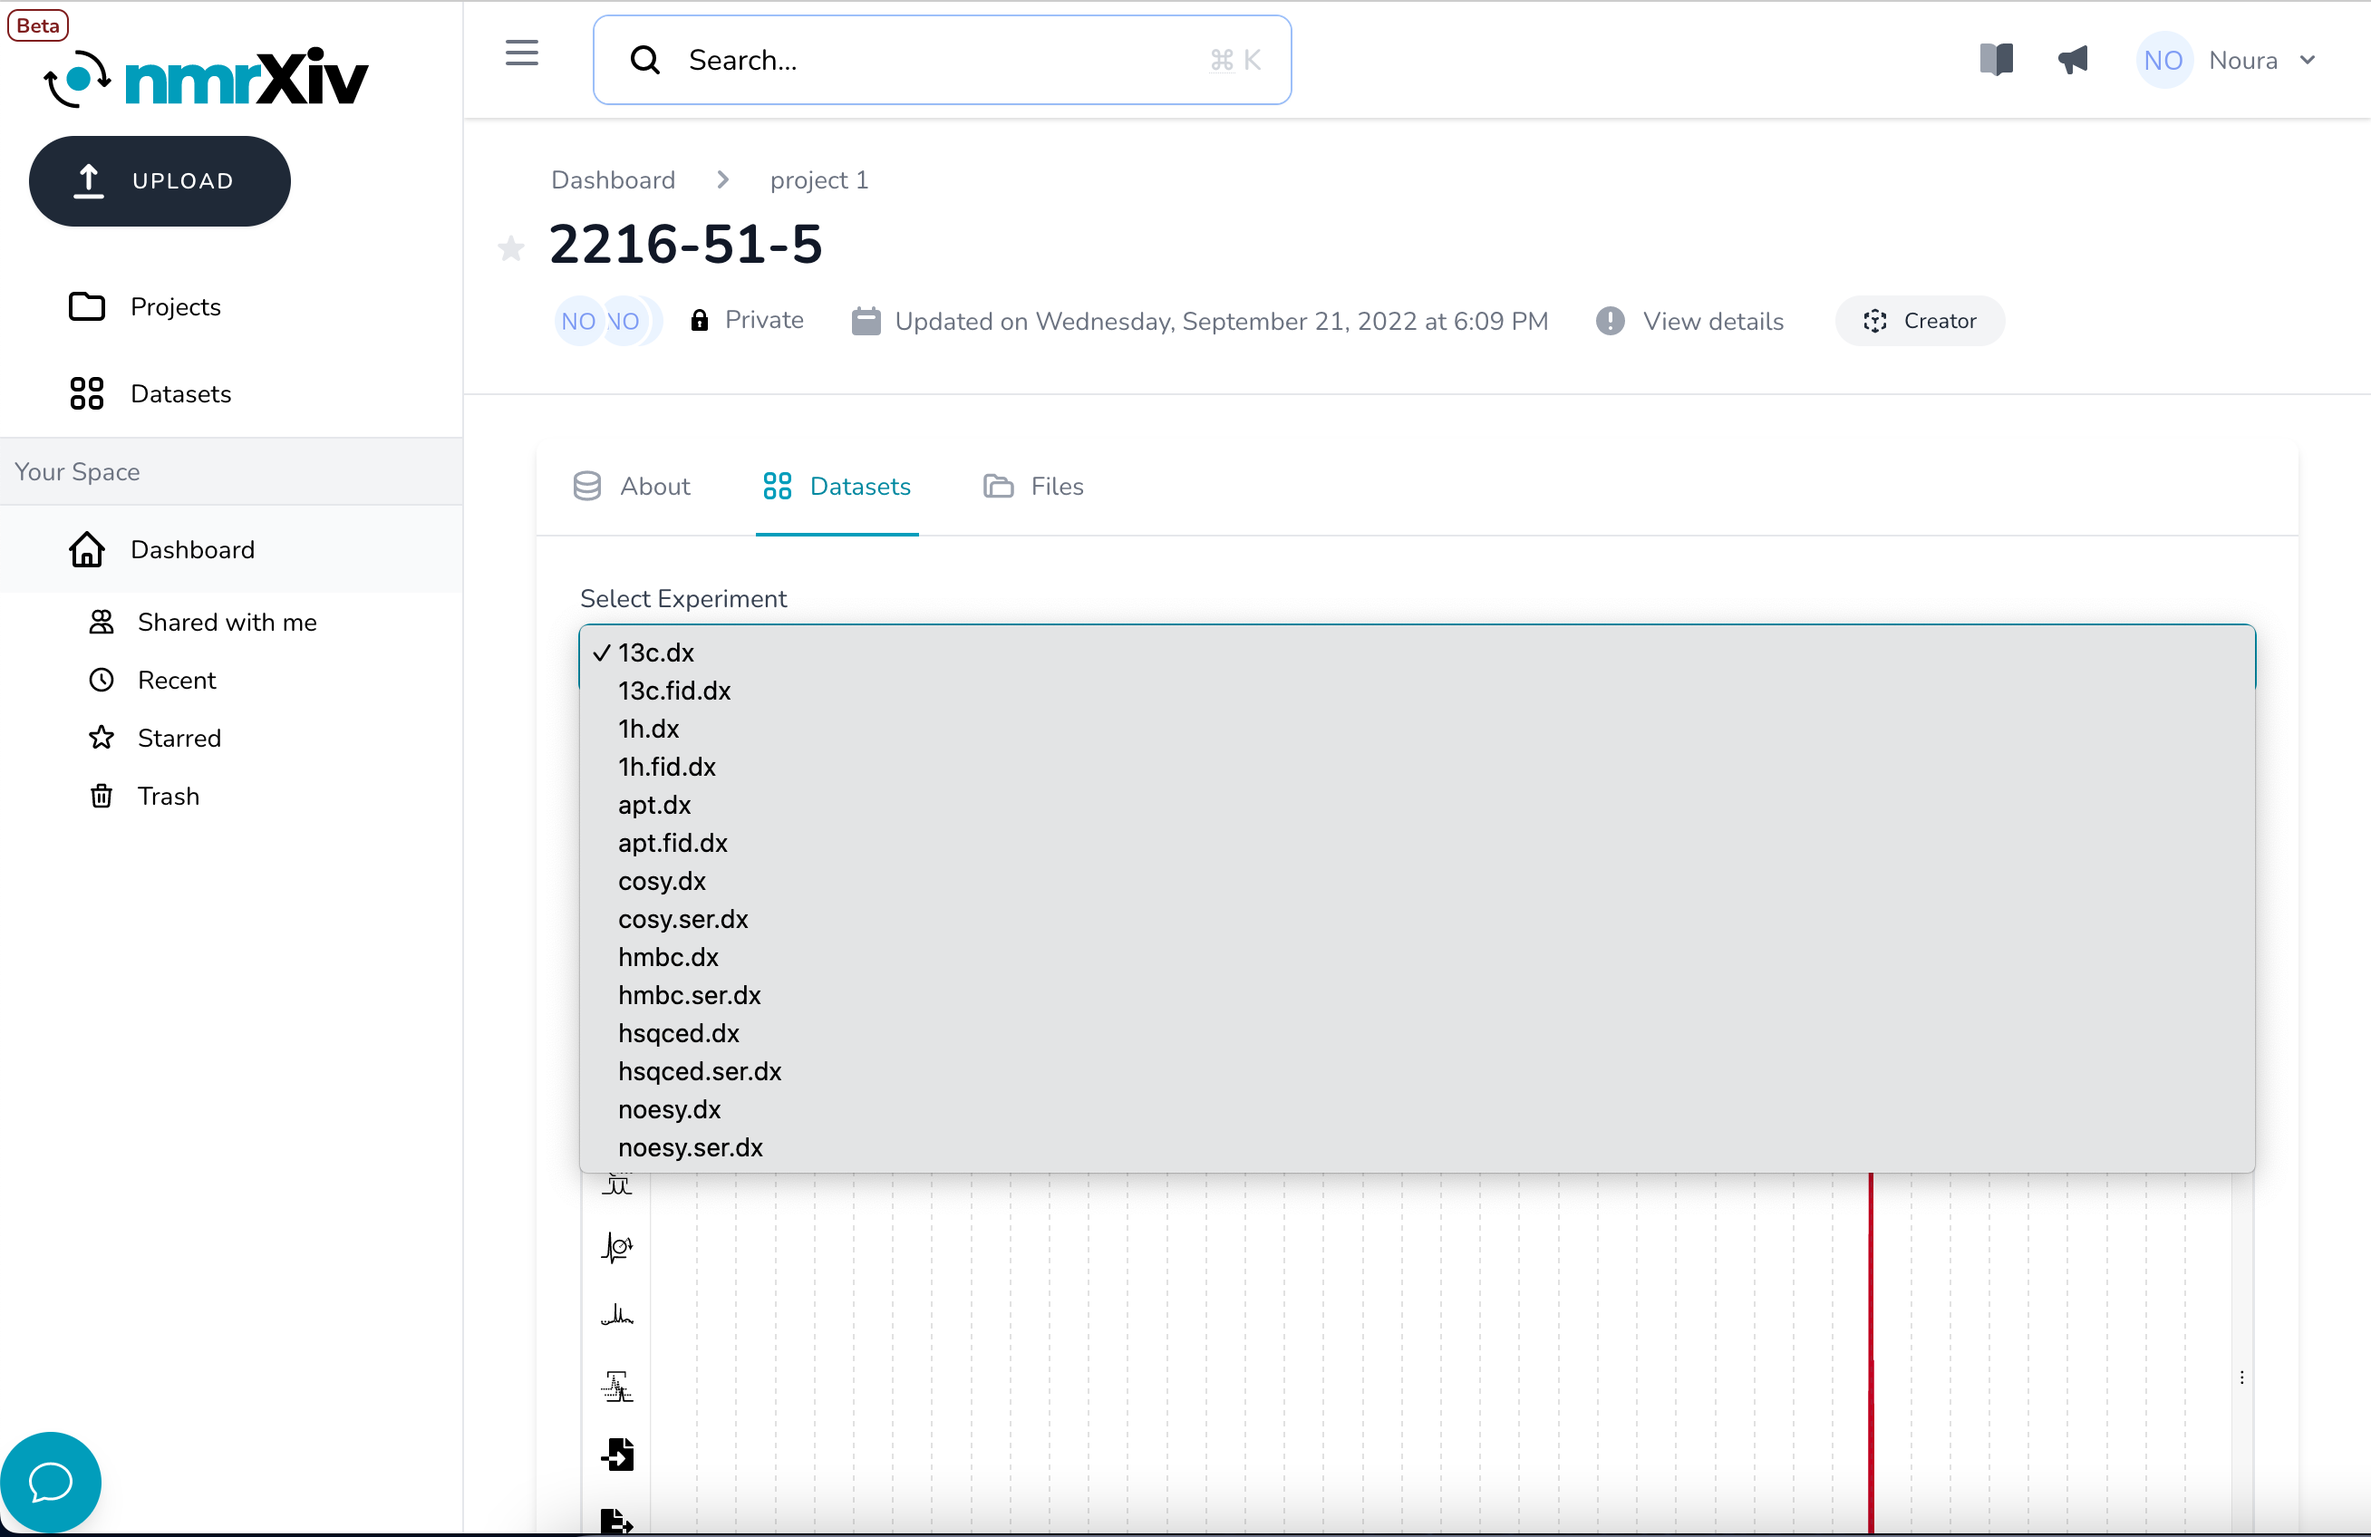
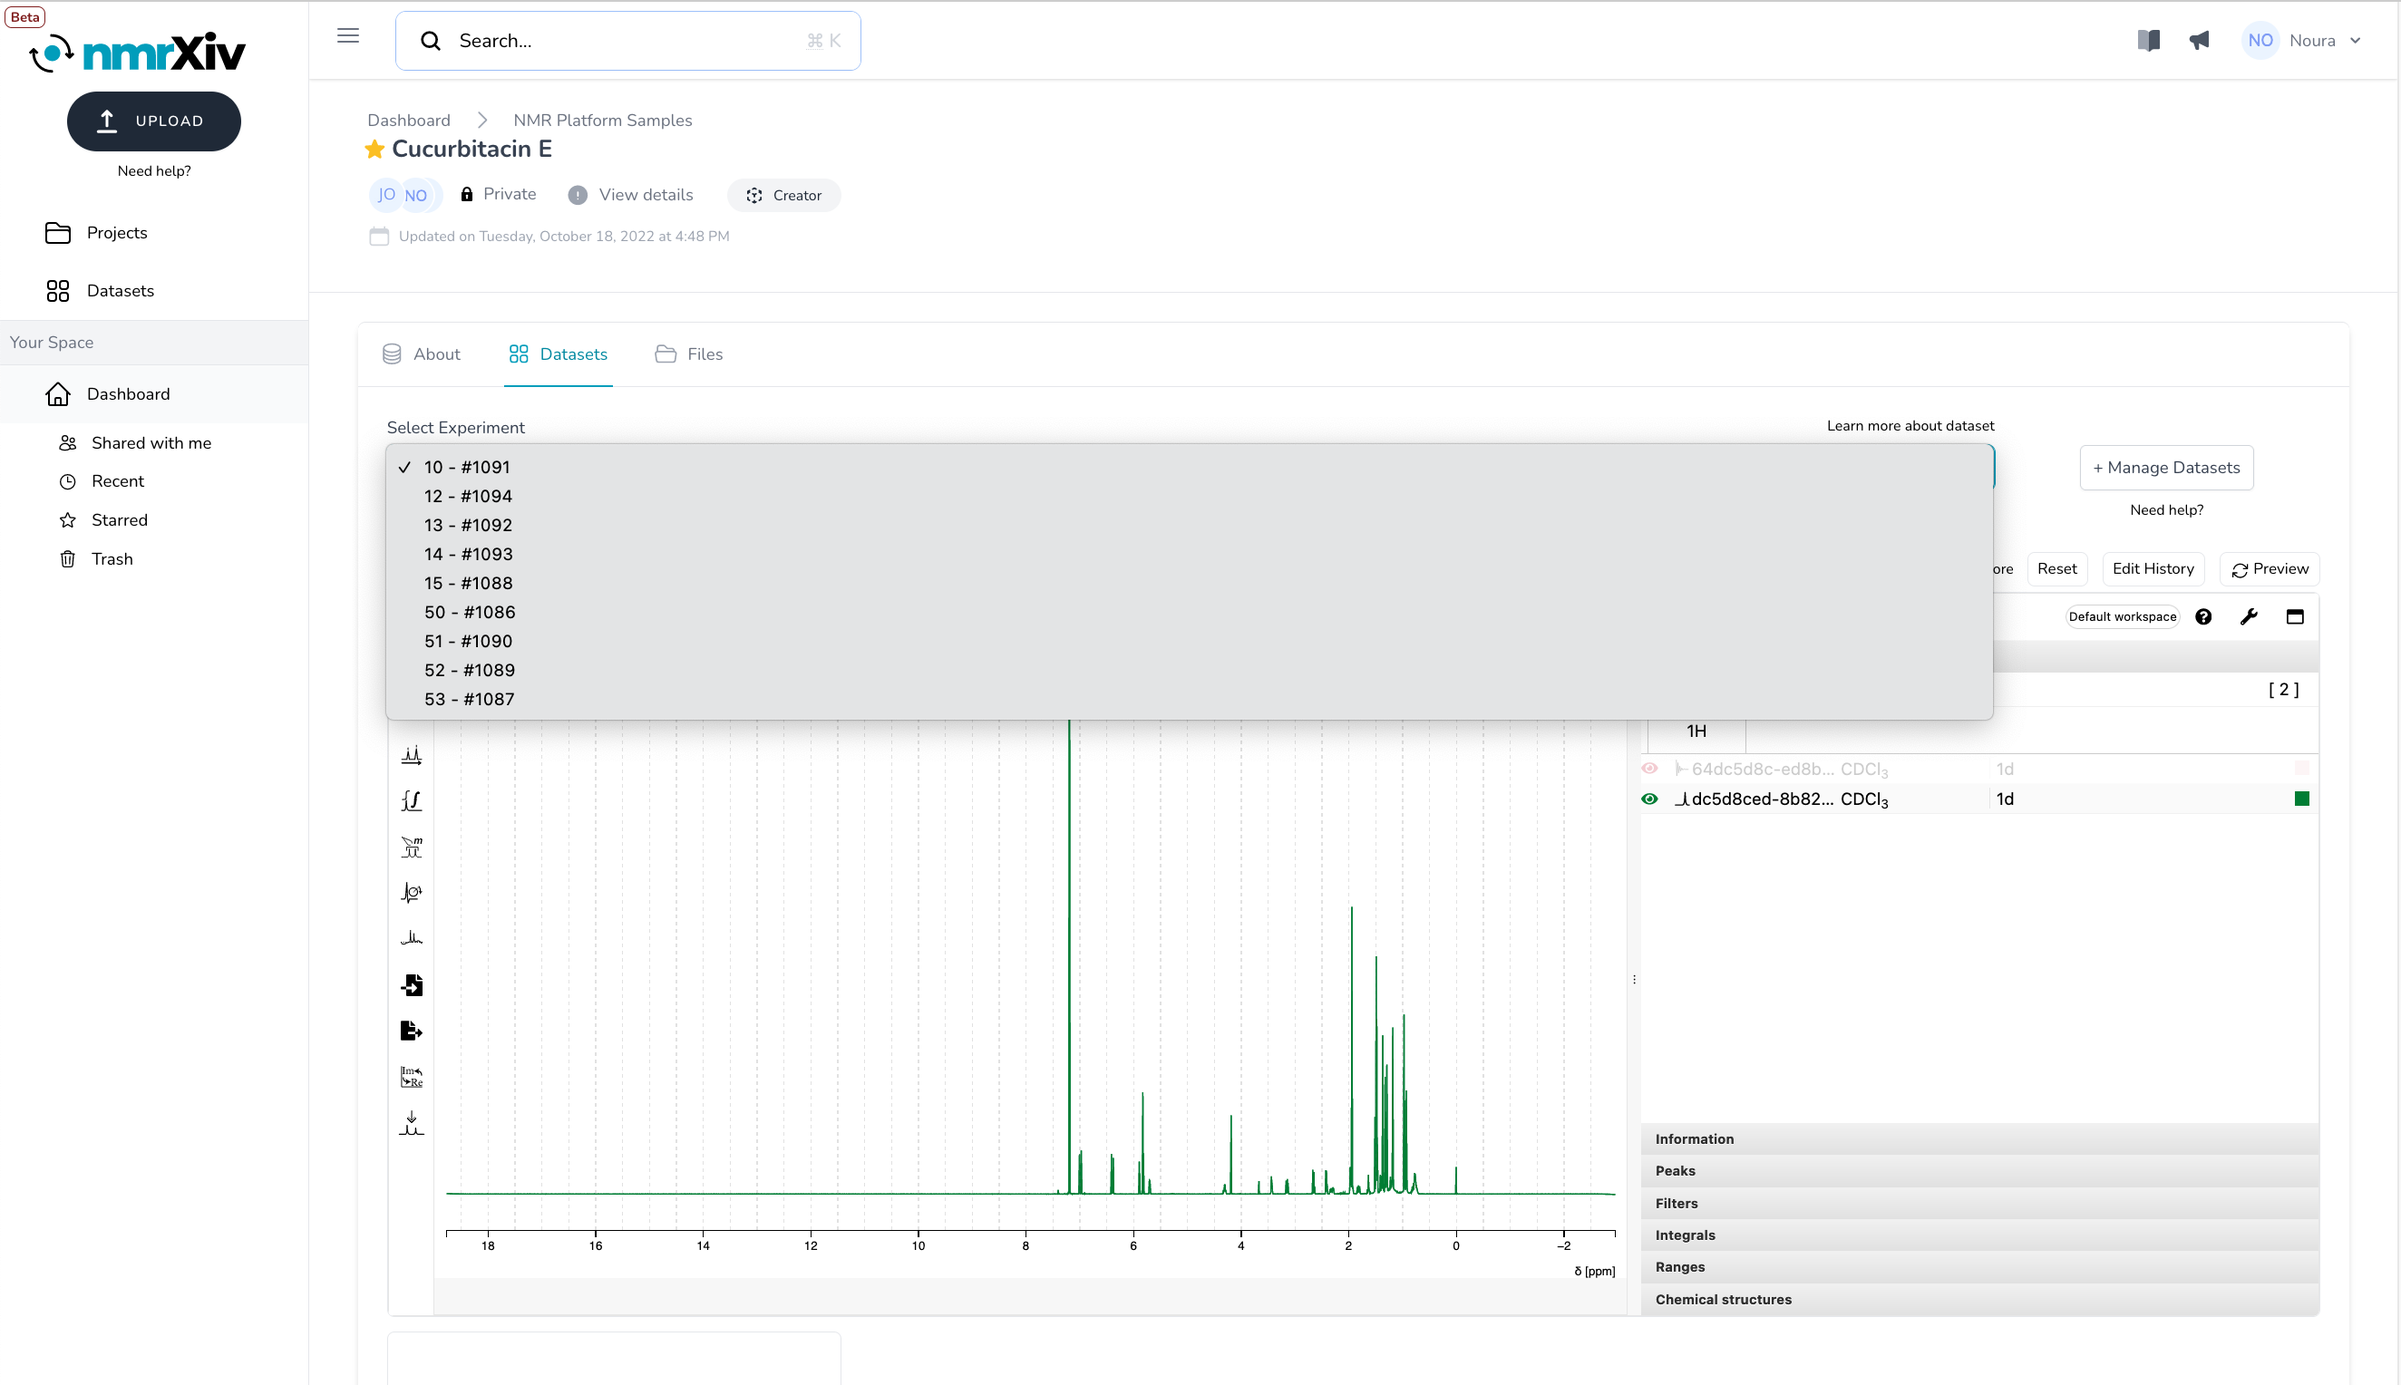
fix: update dataset page Fixes #260

diff --git a/docs/submission-guides/data-model/dataset.md b/docs/submission-guides/data-model/dataset.md
@@ -3,7 +3,7 @@ sidebar_position: 3
 title: Dataset
 ---
 
-The concept of the dataset in nmrXiv is similar to the one of [assay](https://isa-specs.readthedocs.io/en/latest/isamodel.html#assay) in [ISA model](https://isa-tools.org/format/specification.html) yet broader, as it refers to the files corresponding to experiments along with their metadata. For instance, one dataset could be a Bruker folder with all the underlying files corresponding to a 1H assay. nmrXiv is capable of detecting datasets automatically and grouping them in studies, which requires the user to make sure that they submit their data in a compatible way. For more details, it is highly recommended to check the [folder structuring section](/docs/submission-guides/submission/folder-structure.md) before submitting data.
+The concept of the dataset in **[nmrXiv](https://nmrxiv.org/)** is similar to the one of [assay](https://isa-specs.readthedocs.io/en/latest/isamodel.html#assay) in [ISA model](https://isa-tools.org/format/specification.html) yet broader, as it refers to the files corresponding to experiments along with their metadata. For instance, one dataset could be a Bruker folder with all the underlying files corresponding to a 1H assay. **[nmrXiv](https://nmrxiv.org/)** is capable of detecting datasets automatically and grouping them in studies, which requires the user to ensure submitting their data in a compatible way. For more details, it is highly recommended to check the [folder structuring section](/docs/submission-guides/submission/folder-structure.md) before submitting data.
 
 ## Dataset View
 <div style={{textAlign: 'center'}}>
@@ -12,7 +12,7 @@ The concept of the dataset in nmrXiv is similar to the one of [assay](https://is
 </div>
 <br></br>
 
-The view of a public dataset is similar to the private's one. In fact, it is just a tab from the [study view](/docs/submission-guides/data-model/study/#study-view), and it is similar to the [Step 2](/docs/submission-guides/submission/upload#assignement--meta-data---step-2) Experiments (Spectra) tab of the [Data Submission Pipeline](/docs/submission-guides/submission/upload). At the top, there is a drop-down menu to select an experiment (within a study, aka, sample). 
+The view of a public dataset is similar to the private's one. In fact, it is just a tab from the [study view](/docs/submission-guides/data-model/study/#study-view), and it is similar to the [Step 2](/docs/submission-guides/submission/upload#assignement--meta-data---step-2) Experiments (Spectra) tab of the [Data Submission Pipeline](/docs/submission-guides/submission/upload). At the top, there is a drop-down menu to select an experiment (within a study, thus, sample). 
 <div style={{textAlign: 'center'}}>
 <img src="/img/dataset/experiment.png" width="1000"/>
 <figcaption>Select experiment menu</figcaption>
@@ -21,41 +21,55 @@ The view of a public dataset is similar to the private's one. In fact, it is jus
 
 The selected experiment will be viewed in the embedded NMRium. For more details about [NMRium](https://www.nmrium.org/), please visit our [NMRium documentation page](/docs/advanced-guides/nmrium/) and [NMRium official documentation](https://docs.nmrium.org/).
 
-:::caution Please note
-On the very right side of the NMRium window, there are three vertical dots. Double-clicking on them will expand a menu with several fields.
-:::
+Next to the `Select Experiment` menu, there is a `Manage Datasets` button, which enables adding datasets or deleting them to and from a study through the [submission pipeline](/docs/submission-guides/submission/upload.md).
 
-Below NMRium there is the license of the datasets. This field is uneditable, and it takes its value from the parent study license. Then there is metadata of the experiment:
+Directly above the NMRium window, you can see a gray message on the left that informs the user about the current status of the spectra (being uploaded, saved, etc.). To the right side, there exist three buttons. `Reset` will reset all the edits done on the spectra, getting it back to its original status when uploaded. Resting is an edit that is saved along with other edits in the history, which can be viewed by clicking `Edit History`, which opens a side menu to show the editors, and the dates of edits.
+
+<div style={{textAlign: 'center'}}>
+<img src="/img/dataset/history.png" width="1000"/>
+</div> 
+
+If any structure is added to `Chemical structures` field in NMRium, it appears directly below NMRium. Then there is metadata of the experiment:
 - **Info** includes all the information extracted by [NMRium](https://www.nmrium.org/) about the NMR experiment.
 
 - **Meta** is the second table coming after **Info**. It includes the metadata from the instrument file.
 
 ## Create
-There are two ways to create datasets. First is through the [submission pipeline](/docs/submission-guides/submission/upload.md), where the datasets will be automatically detected. The second is after submission from the `Files` tab within a study by dragging and dropping files or folders, but the second option is possible only for private ones.
+There are two ways to create datasets. First is through the [submission pipeline](/docs/submission-guides/submission/upload.md), where the datasets will be automatically detected. The second is after submission from the `Datasets` tab within a study by dragging and dropping files or folders to the opened [submission pipeline](/docs/submission-guides/submission/upload.md), but the second option is possible only for private ones.
 
-<div style={{textAlign: 'center'}}>
-<img src="/img/dataset/files.png" width="1000"/>
-<figcaption>Files tab in a private study with the option to drag and drop more datasets there.</figcaption>
-</div>
-<br></br>
 
 ## Access
-You can access your created datasets by [entering their parent studies](/docs/submission-guides/data-model/study/#access) and going to `Files` tab. You can also find the ones shared with you by others in the `Shared with me` folder directly if the parent study is not shared with you. All the public datasets on nmrXiv are in the `Datasets` folder.
+You can access your created datasets and the ones shared with you by [entering their parent studies](/docs/submission-guides/data-model/study/#access) and going to `Datasets` or `Files` tabs. All the public datasets on **[nmrXiv](https://nmrxiv.org/)** are in the `Datasets` folder.
 
 ## Edit
-To edit a dataset, you should have **editing** access to it, which is the case when you are its creator or when it is shared with you as an owner or a collaborator. The dataset should also still be private.
-
-You can edit the dataset through NMRium, and a history of changes is kept.
+To edit a dataset, you should have **editing** access to it, which is the case when you are its creator or when it is shared with you as an owner or a collaborator. The dataset should also still be private. You can edit the dataset through NMRium, and a history of changes is kept.
 
 ### Manage Datasets
+From the `Datasets` tab within a study, you can add more datasets by dragging and dropping files or folders to the opened [submission pipeline](/docs/submission-guides/submission/upload.md), or you can delete them by selecting a dataset **in the left panel** and pressing `Delete`.
 
 ## Validation
 
+To publish a dataset, i.e., to make it public, you need to publish its parent project, which must comply with community standards. At the moment, we are checking for [DataCite](https://datacite.org/) mandatory metadata needed to receive a [DOI](https://www.doi.org/) in addition to requesting an image for the project. If any piece of metadata is missing, you will see a **Why can't I publish?** link message at the top of the project view.
+
+<div style={{textAlign: 'center'}}>
+<img src="/img/project/publish.png" width="1000"/>
+</div>
+
+Clicking on **Why can't I publish?** leads to a new page similar to the [step-3 of the submission pipeline](/docs/submission-guides/submission/upload#complete---step-3). Here you can find either red <span style={{color:"red"}}>x</span> or green <span style={{color:"green"}}>✓</span> to indicate the existence or absence of the metadata respectively. Whenever the red <span style={{color:"red"}}>x</span> exists, it is accompanied by an `Edit` button to facilitate providing the missing data. If `NMRium info` validation fails, this means NMRium didn't manage to extract the metadata from the files. Please click `Edit`, which will lead you to the corresponding dataset, and there click on `Preview`, which will update the preview and save it. You can make sure that the metadata is generated by checking the `Info` table below NMRium.
+
+If `Assignments` validation fails, this means you have no structure at the dataset level. Click `Edit`, which will lead you to the corresponding dataset, and in NMRium `Chemical structures`, you have to ensure providing a structure there. The datasets where validation failed can be found from the red highlighting of their name. 
+
+<div style={{textAlign: 'center'}}>
+<img src="/img/dataset/validation.png" width="1000"/>
+<figcaption>Validation Checklist of the Dataset</figcaption>
+</div>
+
 ## Share
-Coming soon.
+[Sharing a study](/docs/submission-guides/data-model/study#share) results in sharing all the underlying datasets. There is no way to share individual datasets.
 
-## Delete
-[Deleting a project](/docs/submission-guides/data-model/project/#delete) will delete all the underlying datasets.
+## Delete and Archive
+Only private datasets can be deleted, while public ones can be archived. The reason is that once a dataset is public, it can be referenced somewhere else, which requires the repository to keep an active link to this dataset. Therefore, when the creators of a public dataset decide that it is no longer maintained, or that the data provided is not accurate, they can only archive it instead of deleting it, while deletion is always an option for private datasets.
 
-## Archive
-[Archiving a project](/docs/submission-guides/data-model/project/#archive) will archive all the underlying datasets.
+Deleting/Archiving a [project](/docs/submission-guides/data-model/project#delete-and-archive) or a [study](/docs/submission-guides/data-model/study#delete-and-archive) will delete/archive all the underlying datasets. In the case of project deletion, this action is reversible for 30 days as the deleted project will be stored in the **Trash** folder, where the user can find the project and restore it from the `Project Settings`. After 30 days, deletion leads to permanently deleting the project and all of its content data. In the case of archiving, the user can unarchive the project anytime from the `Project Settings`. Archived projects are not moved to the trash.
+
+However, there is another way to delete datasets, which is from the [`Manage Datasets` button](#manage-datasets) in the [dataset view](#dataset-view).

diff --git a/docs/submission-guides/data-model/study.md b/docs/submission-guides/data-model/study.md
@@ -108,7 +108,7 @@ If you don't know the percentage of a molecule in your sample, you have to set i
 
 ## Validation
 
-To publish a project, a.k.a. to make it public, it must comply with community standards. At the moment, we are checking for [DataCite](https://datacite.org/) mandatory metadata needed to receive a [DOI](https://www.doi.org/) in addition to requesting an image for the project. If any piece of metadata is missing, you will see a **Why can't I publish?** link message at the top of the project view.
+To publish a study, i.e., to make it public, you need to publish its parent project, which must comply with community standards. At the moment, we are checking for [DataCite](https://datacite.org/) mandatory metadata needed to receive a [DOI](https://www.doi.org/) in addition to requesting an image for the project. If any piece of metadata is missing, you will see a **Why can't I publish?** link message at the top of the project view.
 
 <div style={{textAlign: 'center'}}>
 <img src="/img/project/publish.png" width="1000"/>
@@ -118,9 +118,8 @@ Clicking on **Why can't I publish?** leads to a new page similar to the [step-3 
 
 <div style={{textAlign: 'center'}}>
 <img src="/img/study/validation.png" width="1000"/>
-<figcaption>Validation Checklist of the Project</figcaption>
+<figcaption>Validation Checklist of the Study</figcaption>
 </div>
-
 
 ## Share
 

diff --git a/docs/submission-guides/data-model/project.md b/docs/submission-guides/data-model/project.md
@@ -106,7 +106,7 @@ Please pay attention to preserving your project folder structure when adding mor
 </div>
 
 ## Validation
-To publish a project, a.k.a. to make it public, it must comply with community standards. At the moment we are checking for [DataCite](https://datacite.org/) mandatory metadata needed to receive a [DOI](https://www.doi.org/) in addition to requesting an image for the project. If any piece of metadata is missing, you will see a **Why can't I publish?** link message at the top of the project view.
+To publish a project, i.e., to make it public, it must comply with community standards. At the moment we are checking for [DataCite](https://datacite.org/) mandatory metadata needed to receive a [DOI](https://www.doi.org/) in addition to requesting an image for the project. If any piece of metadata is missing, you will see a **Why can't I publish?** link message at the top of the project view.
 
 <div style={{textAlign: 'center'}}>
 <img src="/img/project/publish.png" width="1000"/>
